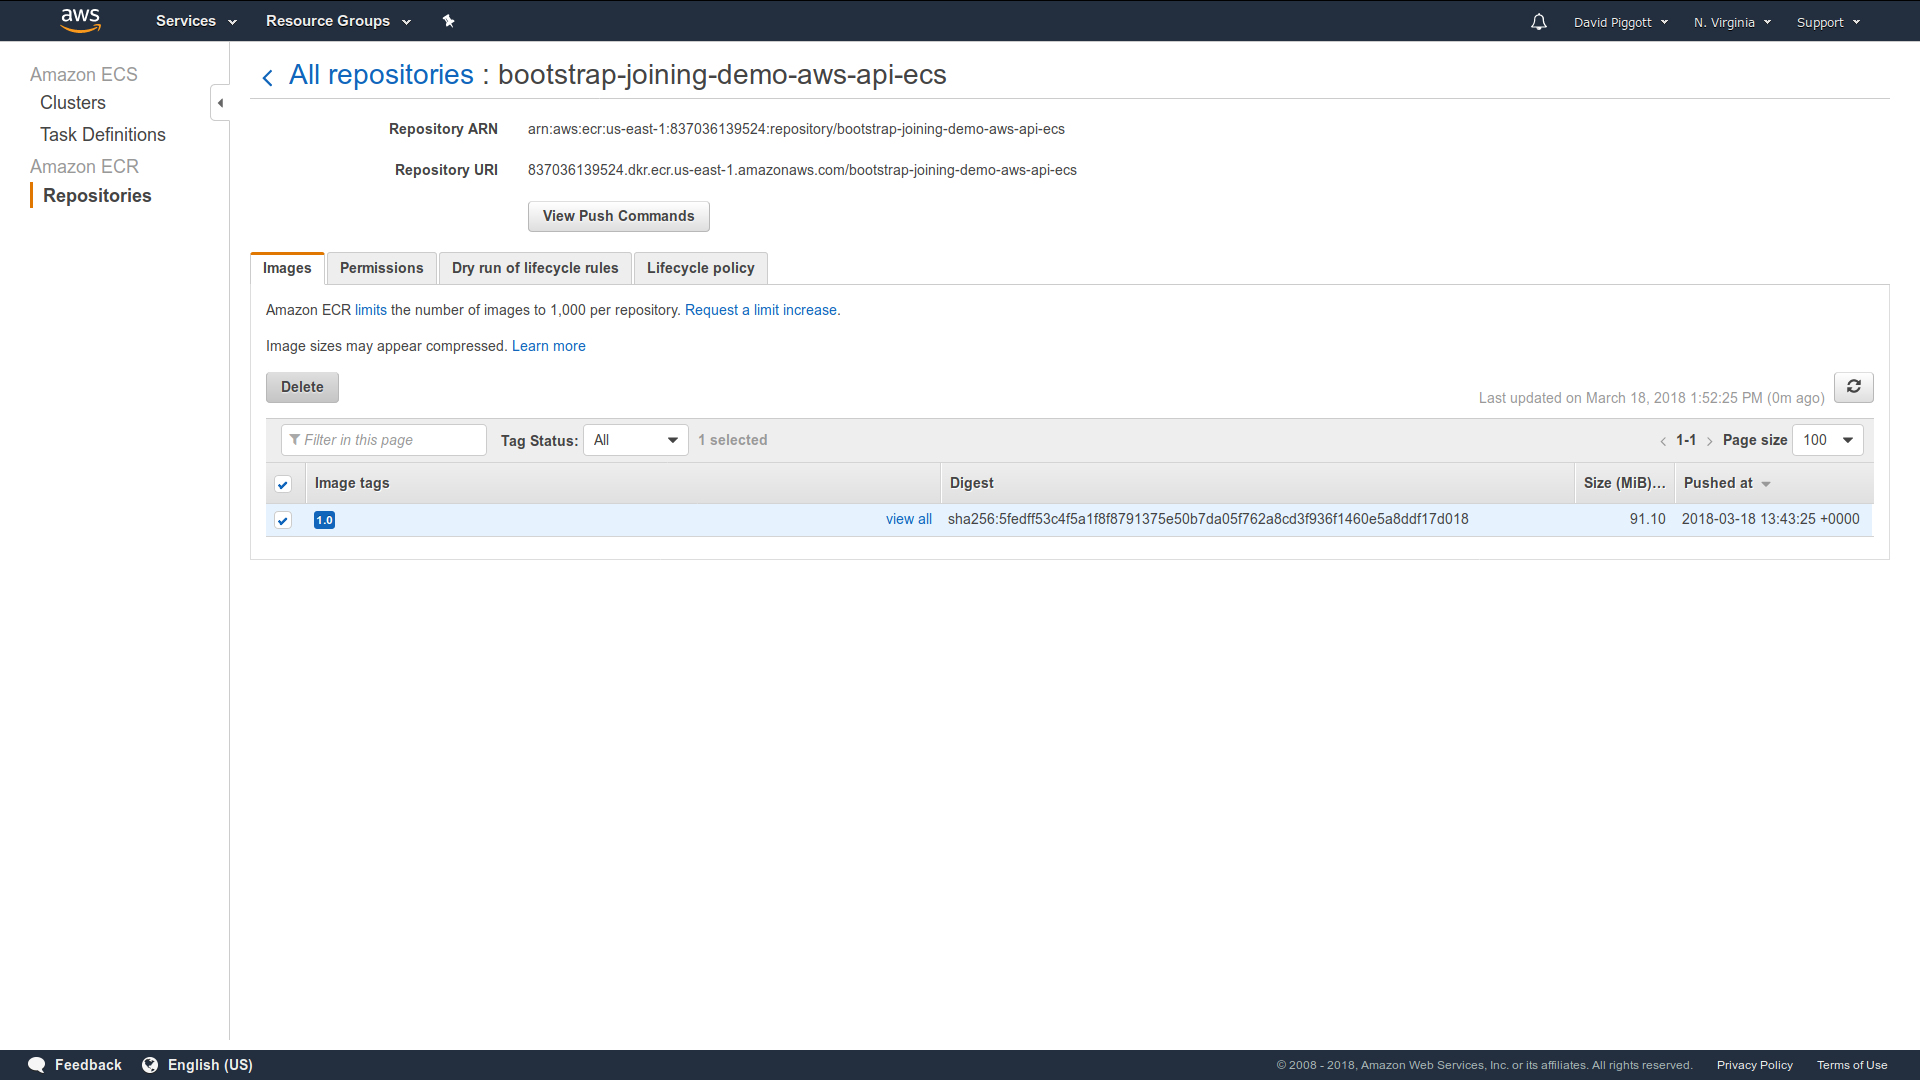
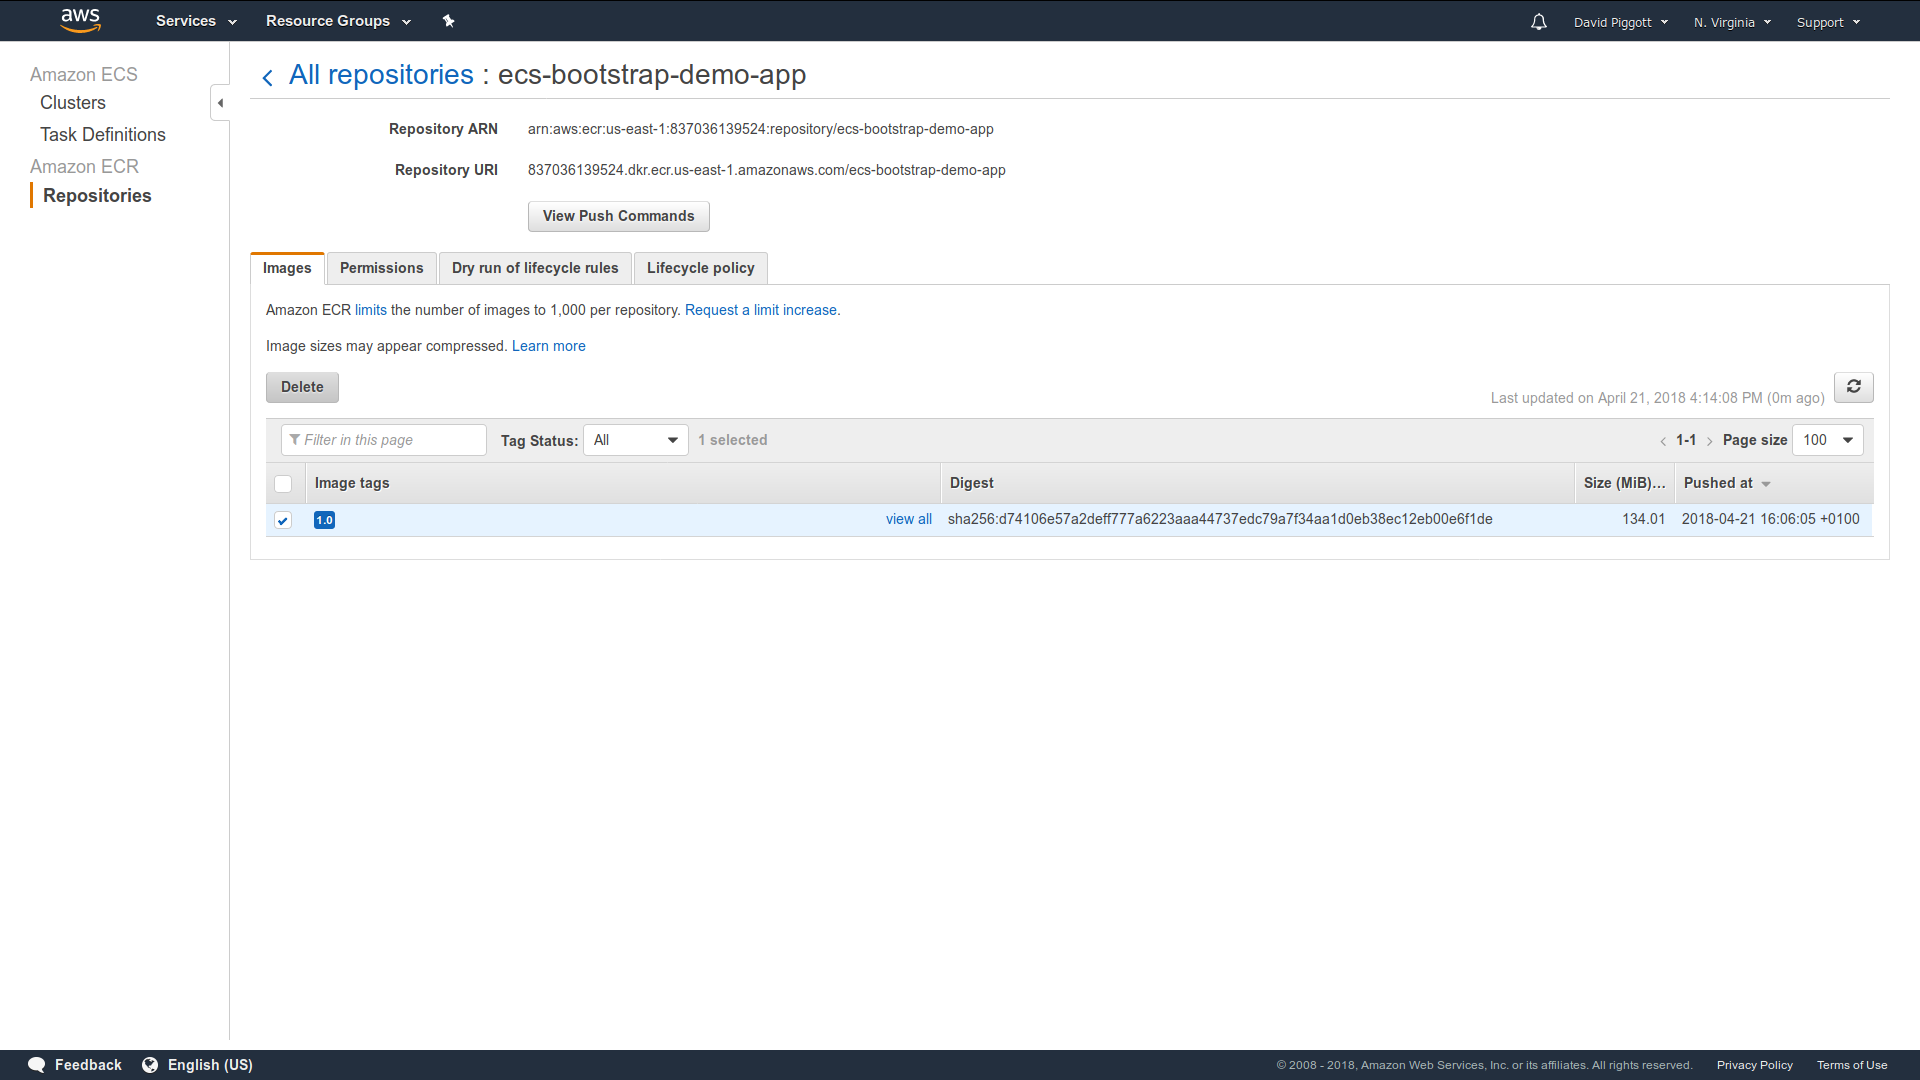
Make ECS demo app resource names shorter, update README and screenshots

diff --git a/bootstrap-joining-demo/aws-api-ecs/README.md b/bootstrap-joining-demo/aws-api-ecs/README.md
@@ -87,51 +87,51 @@ When the cluster has fully formed you should see output like this:
 
 ```
 {
-    "leader": "akka.tcp://bootstrap-joining-demo-aws-api-ecs@172.31.20.48:2552",
+    "leader": "akka.tcp://ecsBootstrapDemoApp@172.31.0.248:2552",
     "members": [
         {
-            "node": "akka.tcp://bootstrap-joining-demo-aws-api-ecs@172.31.69.157:2552",
-            "nodeUid": "75824639",
+            "node": "akka.tcp://ecsBootstrapDemoApp@172.31.0.248:2552",
+            "nodeUid": "-801839214",
             "roles": [
                 "dc-default"
             ],
             "status": "Up"
         },
         {
-            "node": "akka.tcp://bootstrap-joining-demo-aws-api-ecs@172.31.92.117:2552",
-            "nodeUid": "1615766934",
+            "node": "akka.tcp://ecsBootstrapDemoApp@172.31.92.234:2552",
+            "nodeUid": "-1965866076",
             "roles": [
                 "dc-default"
             ],
             "status": "Up"
         },
         {
-            "node": "akka.tcp://bootstrap-joining-demo-aws-api-ecs@172.31.5.114:2552",
-            "nodeUid": "1027838693",
+            "node": "akka.tcp://ecsBootstrapDemoApp@172.31.41.181:2552",
+            "nodeUid": "1441500118",
             "roles": [
                 "dc-default"
             ],
             "status": "Up"
         },
         {
-            "node": "akka.tcp://bootstrap-joining-demo-aws-api-ecs@172.31.44.16:2552",
-            "nodeUid": "-104324792",
+            "node": "akka.tcp://ecsBootstrapDemoApp@172.31.58.83:2552",
+            "nodeUid": "443867006",
             "roles": [
                 "dc-default"
             ],
             "status": "Up"
         },
         {
-            "node": "akka.tcp://bootstrap-joining-demo-aws-api-ecs@172.31.20.48:2552",
-            "nodeUid": "1783337367",
+            "node": "akka.tcp://ecsBootstrapDemoApp@172.31.67.222:2552",
+            "nodeUid": "-17061216",
             "roles": [
                 "dc-default"
             ],
             "status": "Up"
         }
     ],
-    "oldest": "akka.tcp://bootstrap-joining-demo-aws-api-ecs@172.31.20.48:2552",
-    "selfNode": "akka.tcp://bootstrap-joining-demo-aws-api-ecs@172.31.92.117:2552",
+    "oldest": "akka.tcp://ecsBootstrapDemoApp@172.31.0.248:2552",
+    "selfNode": "akka.tcp://ecsBootstrapDemoApp@172.31.58.83:2552",
     "unreachable": []
 }
 ```
@@ -165,8 +165,3 @@ it's empty, so first go and delete the image in ECR:
 You can now delete the two stacks:
 
 ![Deleting stacks](screenshots/delete-stack.png)
-
-You'll probably also want to delete the Docker images from your local registry:
-
-1. `docker rmi 837036139524.dkr.ecr.us-east-1.amazonaws.com/bootstrap-joining-demo-aws-api-ecs:1.0`
-2. `docker rmi bootstrap-joining-demo-aws-api-ecs`
